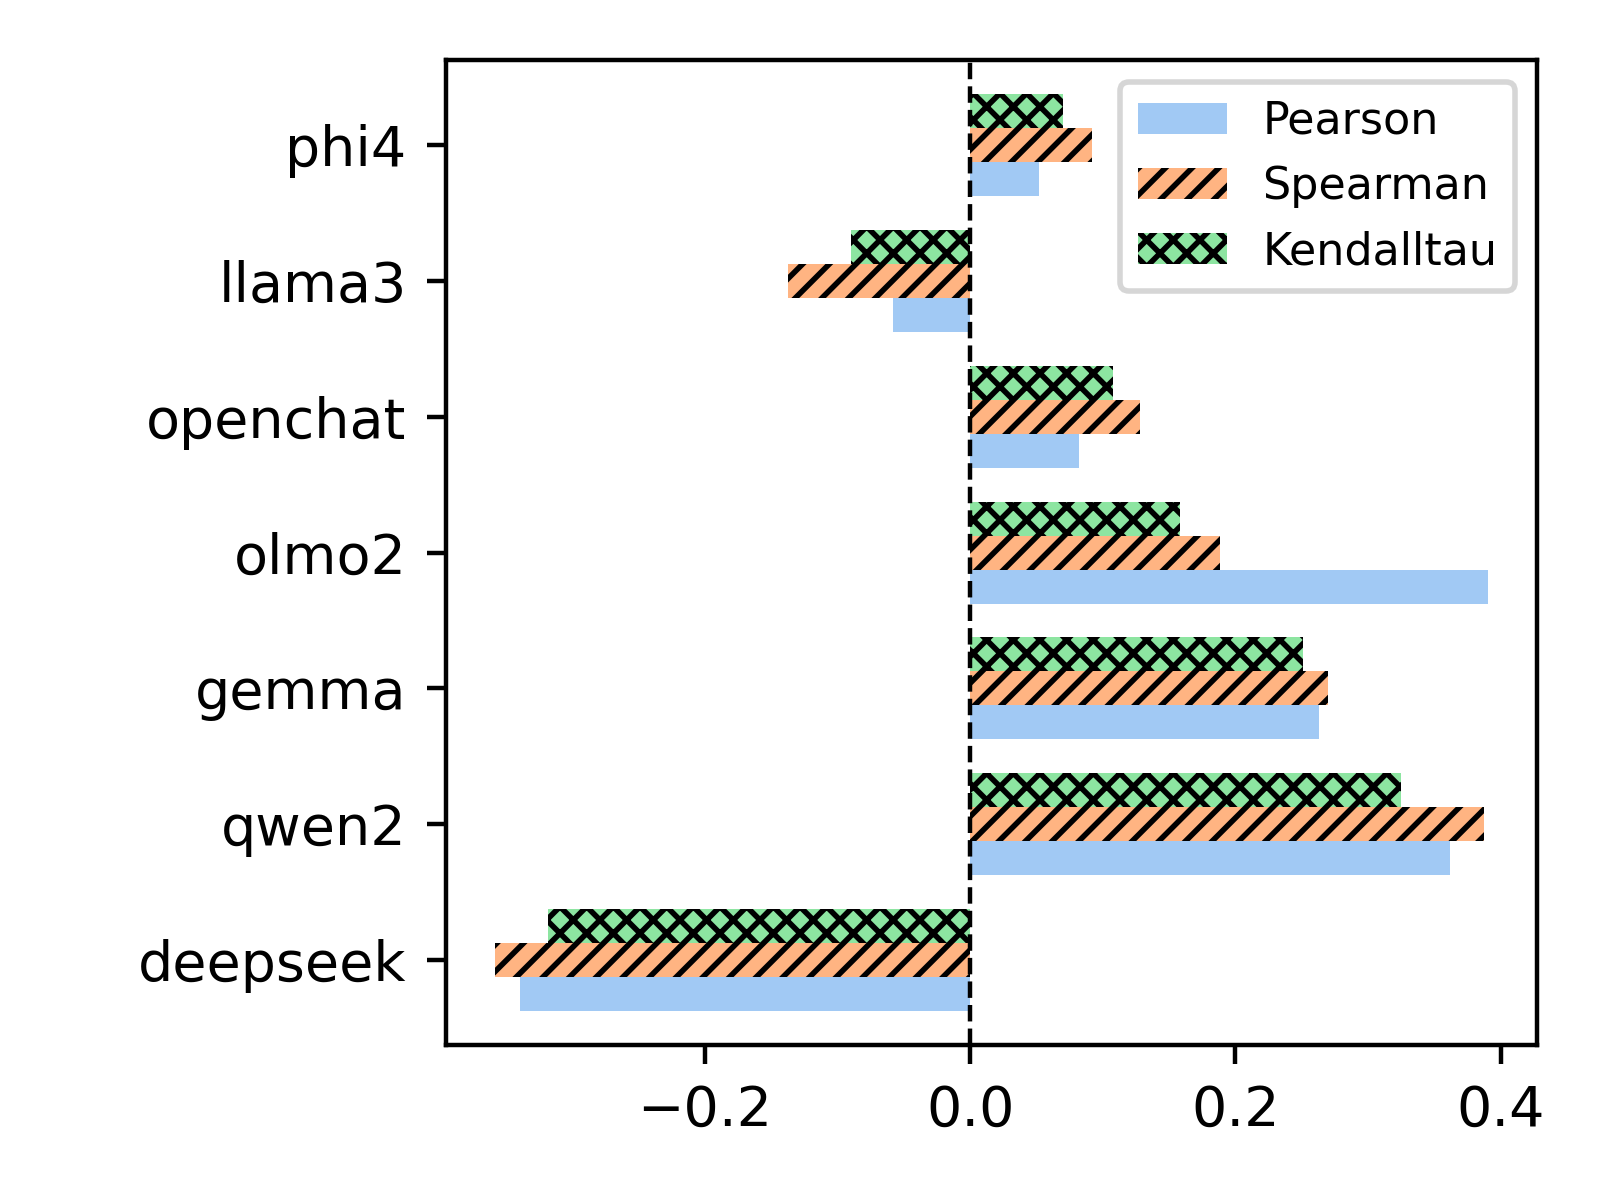
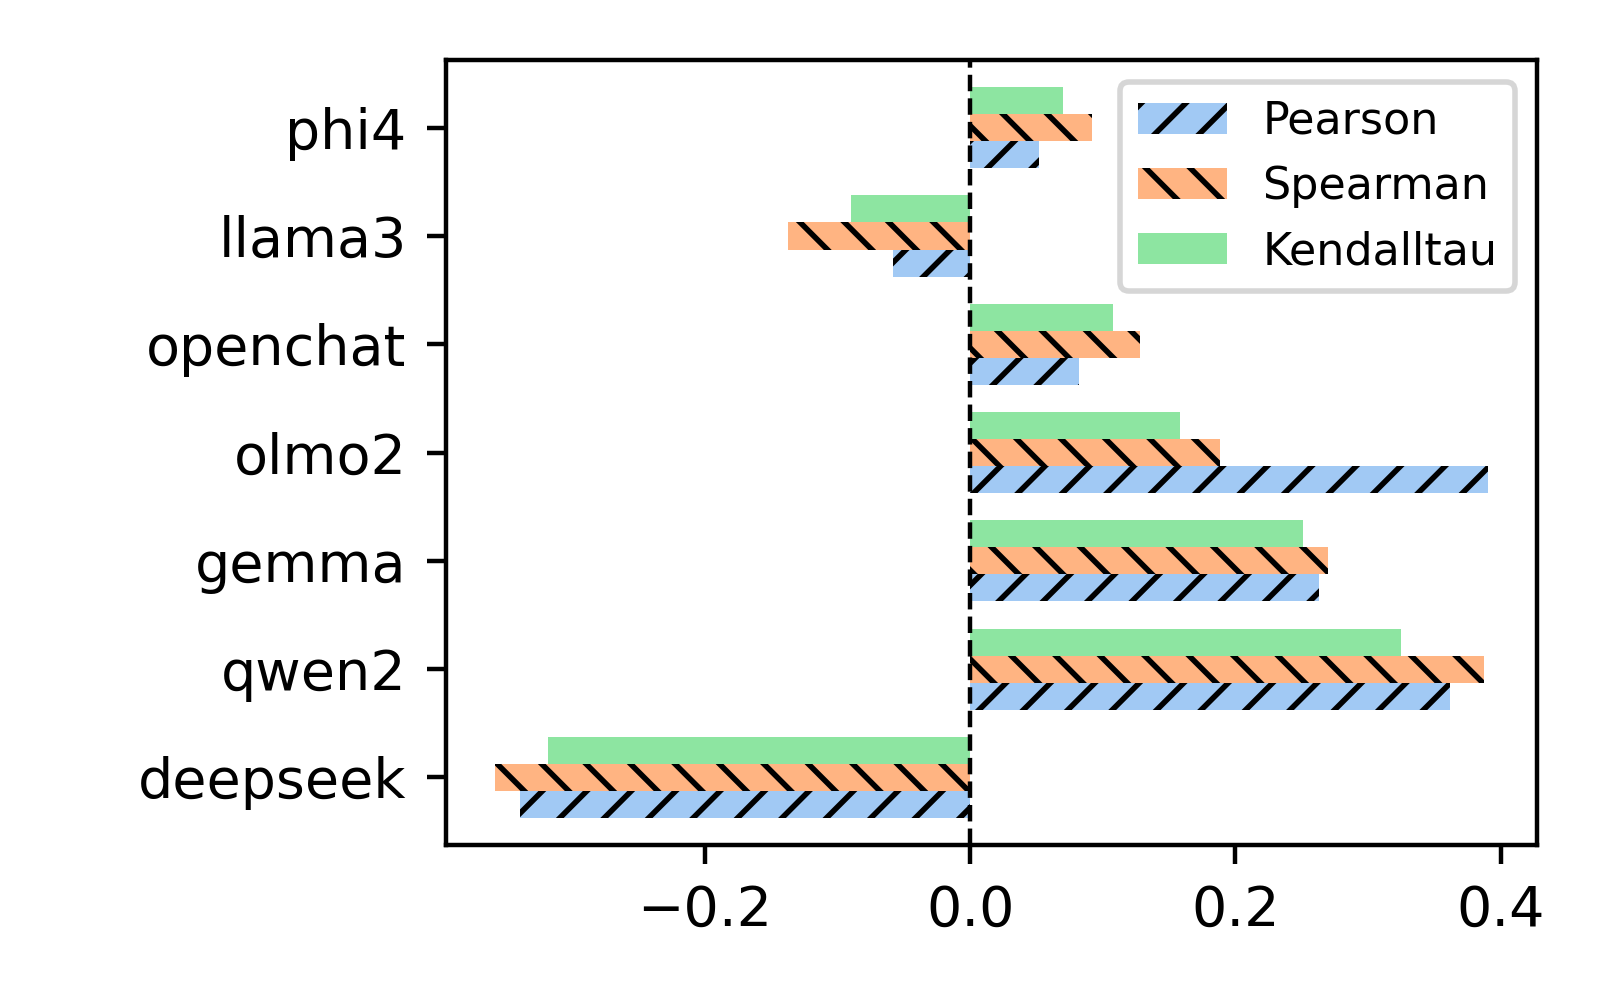
small changes

diff --git a/case_study/plot_human_alignment.py b/case_study/plot_human_alignment.py
@@ -4,7 +4,7 @@ import pandas as pd
 import seaborn as sns
 
 palette = sns.color_palette("pastel")  # Try "Set2", "pastel", "husl", etc.
-hatches = ['', '/////', 'xxxxx']  # For Pearson, Spearman, Kendalltau
+hatches = ['///','\\\\\\', '']  # For Pearson, Spearman, Kendalltau
 
 # Data preparation
 data = {
@@ -29,7 +29,7 @@ p_df = pd.DataFrame(p_values)
 p_df.set_index('Model', inplace=True)
 
 # Plot with annotations
-fig, ax = plt.subplots(figsize=(4, 3))
+fig, ax = plt.subplots(figsize=(4, 2.5))
 bars = df.plot(kind='barh', ax=ax, color=palette, width=0.75)
 
 # Apply hatch patterns to each correlation type
@@ -52,7 +52,7 @@ for i, model in enumerate(df.index):
         if marker:
             offset = 0.15 * (j - 1)  # Adjust spacing between correlation types
             ax.text(width + np.sign(width) * 0.01, i + offset, marker,
-                    va='center', ha='left' if width > 0 else 'right', fontsize=12, color='black')
+                    va='center', ha='left' if width > 0 else 'right', fontsize=8, color='black')
 
 
 plt.axvline(0, color='black', linewidth=0.8, linestyle='--')
